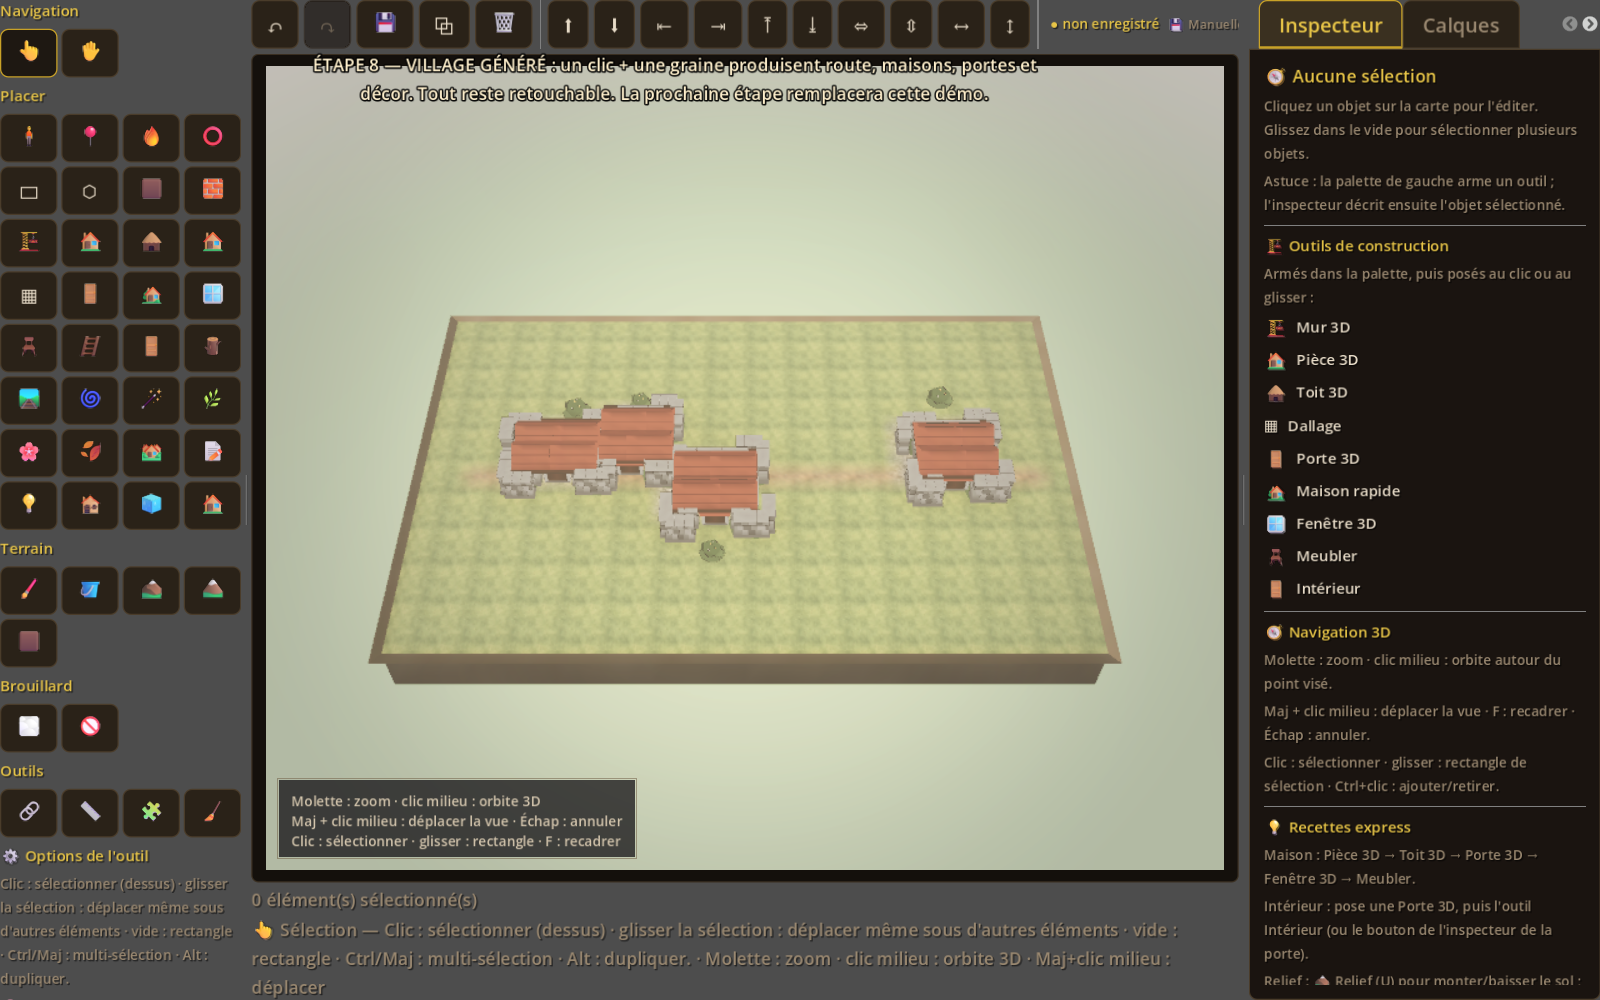
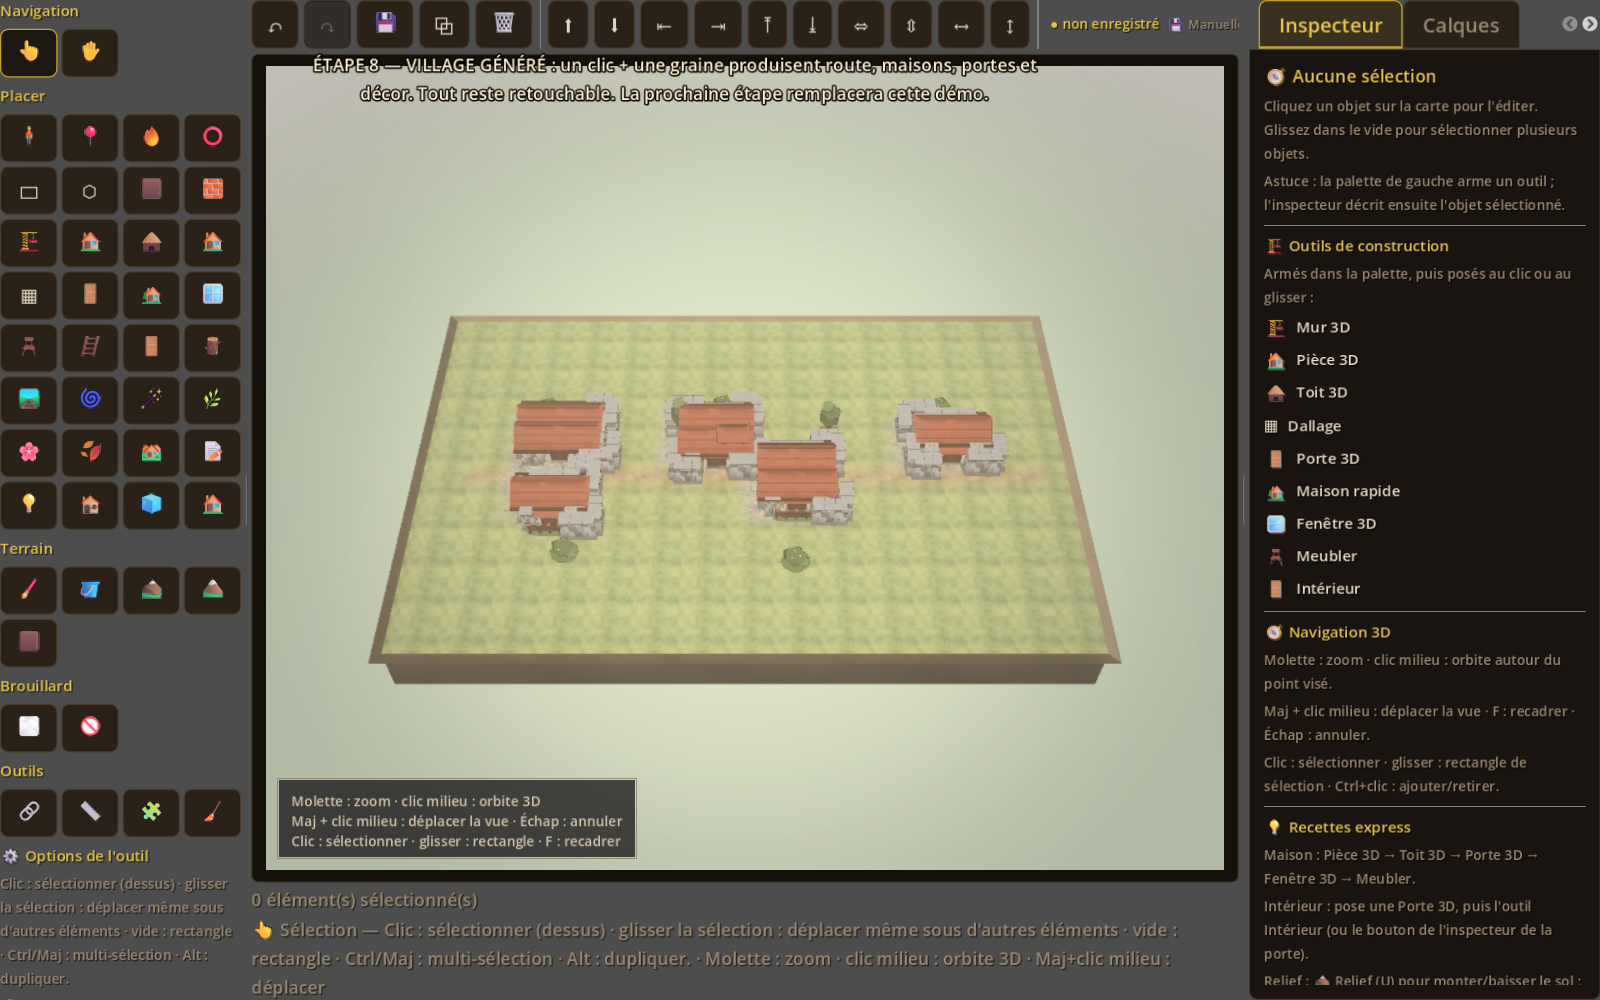
feat(scene): place centrale, puits, fontaine et clotures

Changed region(s): [[0.3125, 0.372, 0.5312, 0.589], [0.5625, 0.372, 0.6562, 0.527]]

diff --git a/docs/PLAN_PROCEDURAL.md b/docs/PLAN_PROCEDURAL.md
@@ -153,12 +153,13 @@ l'étape suivante, et une capture archivée dans `docs/screenshots/`.
 - Empilement : anti-z-fighting par epsilon vertical.
 - Critère : maison complète en un geste.
 
-## Étape 8 — Générateur de scène (v1 livrée)
+## Étape 8 — Générateur de scène (v2 livrée)
 - Village/forêt/camp : route, parcelles, clôtures, puits, arbres.
 - Graine, densité, style.
 - Critère : village généré puis retouché rapidement.
-- v1 : `ProceduralSceneGenerator` (village avec maisons/chemins/décor, forêt,
-  camp), outil « Générer scène », graine/densité, test dédié.
+- v2 : place centrale avec puits/fontaine, clôtures, arbres, chemins ;
+  `ProceduralSceneGenerator`, outil « Générer scène », test d'application réelle,
+  démo et capture.
 
 ## Étape 9 — Rendu Tiny Glade
 - Ciel, lumière, GI, brume, matériaux, végétation.
@@ -258,9 +259,9 @@ Aucune scène de base ne doit dépendre d'un asset modélisé à la main.
 - Étape 7 v2 partielle : **maison rapide** avec toit, porte, option
   **intérieur lié automatique** et **fenêtres automatiques** ; étages/ouvertures
   irrégulières à compléter.
-- Étape 8 v1 livrée : **générateur de scène** village/forêt/camp (plan
-  déterministe, chemins, maisons, décor), outil dédié, test d'application réelle,
-  démo et capture.
+- Étape 8 v2 livrée : **générateur de scène** village/forêt/camp (plan
+  déterministe, place centrale, puits/fontaine, clôtures, chemins, maisons,
+  décor), outil dédié, test d'application réelle, démo et capture.
 - Terrain déformable : pinceau existant + tracé + plateformes + **aplatissement
   d'emprise de bâtiment** ; prochaine itération sur les berges et le mesh de
   terrain.
